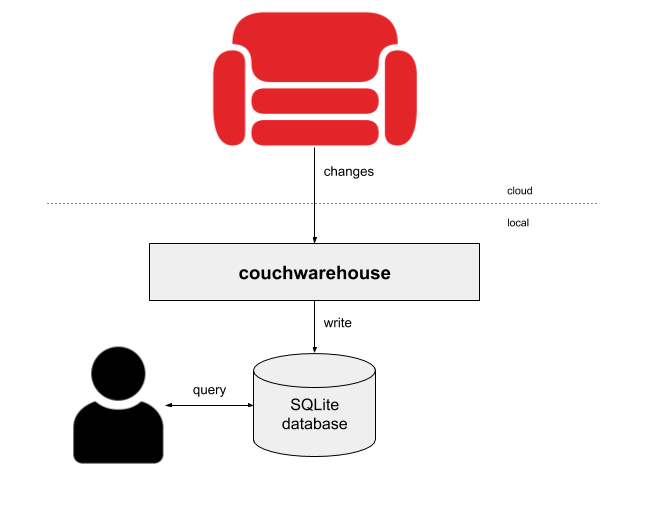
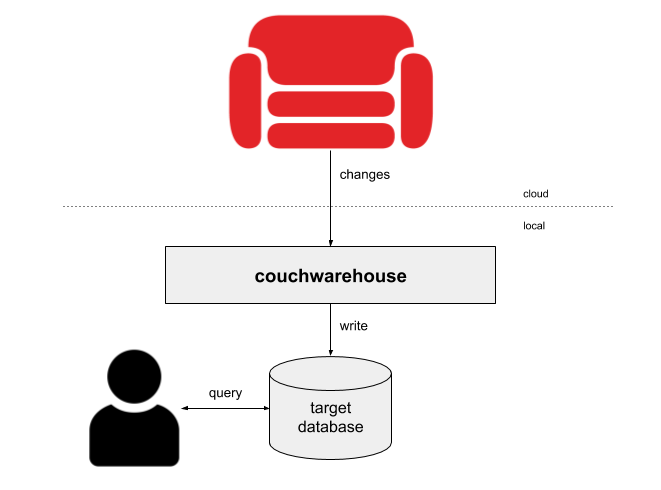
added elasticsearch support

diff --git a/lib/elasticsearch.js b/lib/elasticsearch.js
@@ -1,0 +1,92 @@
+const elasticsearch = require('elasticsearch')
+let db
+
+const initialise = async (reset) => {
+  const config = process.env.ESCONFIG || 'http://localhost:9200'
+  db = new elasticsearch.Client({
+    hosts: [config]
+  })
+}
+
+const generateCreateTableSQL = (opts, docType, dbName, schema, reset) => {
+  return []
+}
+
+// insert an array of changes into the database
+const insertBulk = async (opts, createSQL, dbName, theSchema, batch) => {
+  const actions = []
+
+  batch.forEach(async b => {
+    // ignore design docs
+    if (!b.id.match(/^_design/)) {
+      // get the schema we're working with
+      const docType = opts.split ? b.doc[opts.split] : 'default'
+
+      // if this is a deletion
+      if (b.deleted) {
+        // delete from Elasticsearch
+        actions.push({ delete: { _index: 'couchwarehouse', _type: docType, _id: b.doc._id } })
+      } else {
+        actions.push({ index: { _index: 'couchwarehouse', _type: docType, _id: b.doc._id } })
+        delete b.doc._id
+        delete b.doc._rev
+        delete b.doc._attachments
+        actions.push(b.doc)
+      }
+    }
+  })
+
+  if (actions.length > 0) {
+    return db.bulk({ body: actions })
+  } else {
+    return null
+  }
+}
+
+const query = async (sql, substitutions) => {
+  return null
+}
+
+// write a checkpoint to keep track of where we got to
+// with each table
+const writeCheckpoint = async (tablename, seq) => {
+  const actions = []
+  actions.push({
+    index: {
+      _index: 'couchwarehousemeta',
+      _type: tablename,
+      _id: 'checkpoint'
+    }
+  })
+  actions.push({ seq: seq })
+  return db.bulk({ body: actions })
+}
+
+const getCheckpoint = async (tablename) => {
+  try {
+    const doc = await db.get({
+      index: 'couchwarehousemeta',
+      type: tablename,
+      id: 'checkpoint'
+    })
+    return (doc && doc._source && doc._source.seq) ? doc._source.seq : null
+  } catch (e) {
+    return null
+  }
+}
+
+const message = (opts) => {
+  console.log('Spooling data into Elasticsearch')
+  console.log('Use the API to access the data: https://www.elastic.co/guide/en/elasticsearch/reference/5.5/_the_search_api.html')
+  console.log('p.s Press ctrl-C to stop monitoring for further changes')
+}
+
+module.exports = {
+  initialise,
+  generateCreateTableSQL,
+  insertBulk,
+  query: query,
+  writeCheckpoint: writeCheckpoint,
+  getCheckpoint: getCheckpoint,
+  message: message
+}

diff --git a/index.js b/index.js
@@ -17,6 +17,9 @@ const loadDatabaseDriver = (opts) => {
     case 'mysql':
       sqldb = require('./lib/mysql.js')
       break
+    case 'elasticsearch':
+      sqldb = require('./lib/elasticsearch.js')
+      break
     case 'sqlite':
     default:
       sqldb = require('./lib/sqlite.js')
@@ -109,6 +112,9 @@ const spoolChanges = async (opts, theSchema, maxChange) => {
         if (opts.verbose) {
           bar.tick(b.length)
         }
+
+        // write checkpoint
+        await sqldb.writeCheckpoint(opts.database, lastSeq)
 
         // call the done callback if provided
         if (typeof done === 'function') {
@@ -218,7 +224,6 @@ const start = async (opts) => {
   debug('Spooling changes')
   if (opts.verbose) {
     opts.usableDbName = util.calculateUsableDbName(opts, opts.database, null)
-    console.log(opts.database, opts.usableDbName)
     sqldb.message(opts)
   }
   const lastSeq = await spoolChanges(opts, theSchema, maxChange)

diff --git a/bin/couchwarehouse.bin.js b/bin/couchwarehouse.bin.js
@@ -6,7 +6,7 @@ const db = process.env.COUCH_DATABASE
 const args = require('yargs')
   .option('url', { alias: 'u', describe: 'CouchDB URL', default: url })
   .option('database', { alias: ['db', 'd'], describe: 'CouchDB database name', demandOption: !db, default: db })
-  .option('databaseType', { alias: ['dt'], describe: 'SQL database type', default: 'sqlite' })
+  .option('databaseType', { alias: ['dt'], describe: 'Target database type (postgresql,mysql,sqlite,elasticsearch)', default: 'sqlite' })
   .option('verbose', { describe: 'Show instructions and progress in the output', default: true })
   .option('reset', { alias: 'r', describe: 'Ignore previously downloaded data and start again', default: false })
   .option('transform', { alias: 't', describe: 'Path to a JavaScript transformation function', default: process.env.COUCH_TRANSFORM ? process.env.COUCH_TRANSFORM : null })

diff --git a/README.md b/README.md
@@ -1,15 +1,17 @@
 # couchwarehouse
 
-*couchwarehouse* is a command-line tool that turns your [Apache CouchDB](http://couchdb.apache.org/) database(s) into a local data warehouse. It works by:
+*couchwarehouse* is a command-line tool that turns your [Apache CouchDB](http://couchdb.apache.org/) database(s) into a local data warehouse. The target database can be either be [SQLite](https://www.sqlite.org/index.html), [PostgreSQL](https://www.postgresql.org/), [MySQL](https://www.mysql.com/) or [Elasticsearch](https://www.elastic.co/products/elasticsearch).
 
-- discovering the "schema" of your CouchDB database.
-- creating a new [SQLite](https://www.sqlite.org/index.html), [PostgreSQL](https://www.postgresql.org/) or [MySQL](https://www.mysql.com/) table to match the schema.
-- downloading all the documents (except design documents) and inserting one row per document into the SQL database.
+It works by:
+
+- discovering the "schema" of your CouchDB database (for the relational databases).
+- creating a new [SQLite](https://www.sqlite.org/index.html), [PostgreSQL](https://www.postgresql.org/) or [MySQL](https://www.mysql.com/) table to match the schema, or in the case of Elasticsearch simply moving the JSON over.
+- downloading all the documents (except design documents) and inserting one row per document into the target database.
 - continuously monitoring CouchDB for new documents, updates to existing documents and deletions.
 
 ![](img/couchwarehouse.png)
 
-Once downloaded your database can be queried using SQL.
+Once downloaded your database can be queried using SQL or the target database's API.
 
 ## Installation
 
@@ -19,7 +21,7 @@ Once downloaded your database can be queried using SQL.
 npm install -g couchwarehouse
 ```
 
-## Usage
+## Usage with SQLite
 
 By default, your CouchDB installation is expected to be on "http://localhost:5984". Override this with the `--url`/`-u` parameter and specify the database name with `--database`/`-db`:
 
@@ -42,7 +44,7 @@ After downloading is complete, *couchwarehouse* will continuously poll the sourc
 
 Press "Ctrl-C" to exit.
 
-## Accessing the data warehouse
+## Accessing the SQLite data warehouse
 
 In another terminal, simply run the `sqlite3` command-line tool (which may be pre-installed on your computer, otherwise [download here](https://www.sqlite.org/download.html)).
 
@@ -67,7 +69,7 @@ SQLite has an [extensive query language](https://www.sqlite.org/lang.html) inclu
 
 N.B if your database name has a `-` character in it, it will be removed from the subsequent SQL table e.g "month-54" becomes "month54".
 
-## Using with PostgreSQL instead of SQLite
+## Using with PostgreSQL as the target database
 
 The PostgreSQL connection details are gleaned from [environment variables](https://www.postgresql.org/docs/9.3/libpq-envars.html). If you're [running PostgreSQL locally](https://www.postgresql.org/docs/11/tutorial-install.html) without password protection, you need only worry about the `PGDATABASE` environment variable which defines the name of the database the `couchwarehouse` tables will be created. If left undefined, a database matching your current username will be assumed (e.g. `glynnb`). I had to create this database first:
 
@@ -96,7 +98,7 @@ glynnb=# select * from mydb limit 5;
 (5 rows)
 ```
 
-## Using with MySQL instead of SQLite
+## Using with MySQL as the target database
 
 The MySQL connection string is taken from the `MYSQLCONFIG` environment variable, or if absent `mysql://root:@localhost:3306/couchwarehouse` is used. connection details are gleaned from [environment variables]. You will need to create the `couchwarehouse` database first:
 
@@ -129,11 +131,28 @@ mysql> select * from mydb limit 5;
 5 rows in set (0.00 sec)
 ```
 
+## Using with Elasticsearch as the target database
+
+The MySQL connection string is taken from the `ESCONFIG` environment variable, or if absent `http://localhost:9200` is used. 
+
+Run `couchwarehouse` specifyinhg the `--databaseType` parameter:
+
+```sh
+$ couchwarehouse --url https://U:P@host.cloudant.com --db mydb --databaseType elasticsearch
+```
+
+You can then access your datawarehouse using the Elasticsearch API:
+
+```
+$  curl 'http://localhost:9200/couchwarehouse/_search?q=name:"York"' 
+{"took":3,"timed_out":false,"_shards":{"total":5,"successful":5,"skipped":0,"failed":0},"hits":{"total":6,"max_score":7.998925,"hits":[{"_index":"couchwarehouse","_type":"default","_id":"4562407","_score":7.998925,"_source":{"name":"York","latitude":39.9626,"longitude":-76.72774,"country":"US","population":43718,"timezone":"America/New_York"}},{"_index":"couchwarehouse","_type":"default","_id":"2633352","_score":7.998925,"_source":{"name":"York","latitude":53.95763,"longitude":-1.08271,"country":"GB","population":144202,"timezone":"Europe/London"}},{"_index":"couchwarehouse","_type":"default","_id":"6091104","_score":5.9267497,"_source":{"name":"North York","latitude":43.76681,"longitude":-79.4163,"country":"CA","population":636000,"timezone":"America/Toronto"}},{"_index":"couchwarehouse","_type":"default","_id":"7870925","_score":5.9267497,"_source":{"name":"East York","latitude":43.69053,"longitude":-79.32794,"country":"CA","population":115365,"timezone":"America/Toronto"}},{"_index":"couchwarehouse","_type":"default","_id":"5128581","_score":5.283532,"_source":{"name":"New York City","latitude":40.71427,"longitude":-74.00597,"country":"US","population":8175133,"timezone":"America/New_York"}},{"_index":"couchwarehouse","_type":"default","_id":"5106292","_score":4.734778,"_source":{"name":"West New York","latitude":40.78788,"longitude":-74.01431,"country":"US","population":49708,"timezone":"America/New_York"}}]}
+```
+
 ## Command-line parameter reference
 
 - `--url`/`-u` - the URL of the CouchDB instance e.g. `http://localhost:5984`
 - `--database`/`--db`/`-d` - the name of the CouchDB database to work with
-= `--databaseType`/`-dt` - the type of database - `sqlite` or z`postgresql` (default: sqlite)
+= `--databaseType`/`-dt` - the type of database - `sqlite`, `mysql`,`postgresql` or `elasticsearch` (default: sqlite)
 - `--verbose` - whether to show progress on the terminal (default: true)
 - `--reset`/`-r` - reset the data. Delete existing data and start from scratch (default: false)
 - `--transform`/`-t` - transform each document with a supplied JavaScript function (default: null)
